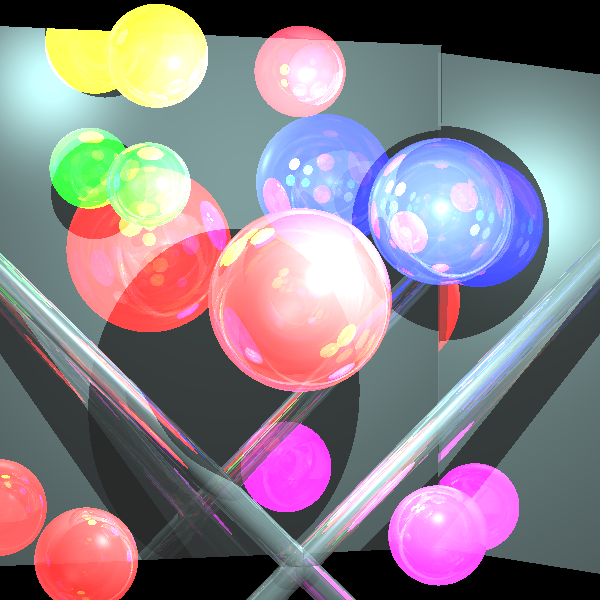
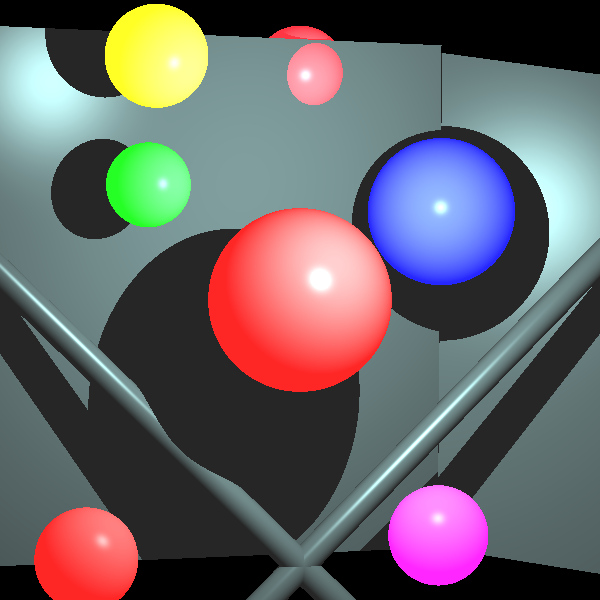
baratin encore une fois

diff --git a/src/primitives/Material.java b/src/primitives/Material.java
@@ -96,7 +96,7 @@ public class Material {
      * @return transparency factor
      */
     public Double3 getKt() {
-        return kD;
+        return kT;
     }
 
     /**
@@ -120,7 +120,7 @@ public class Material {
      * @return coefficient of reflection
      */
     public Double3 getKr() {
-        return kD;
+        return kR;
     }
     /**
      * setter for shininess value
